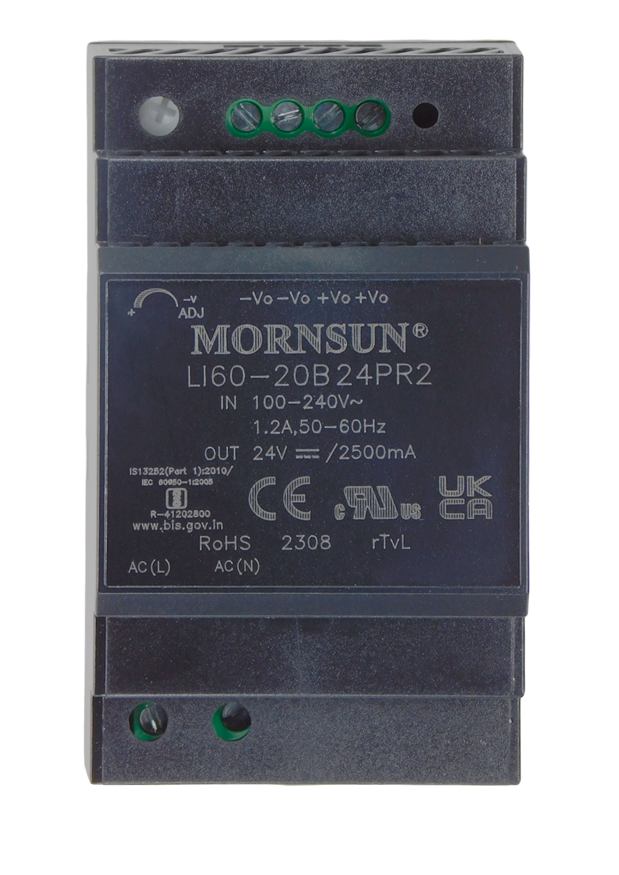
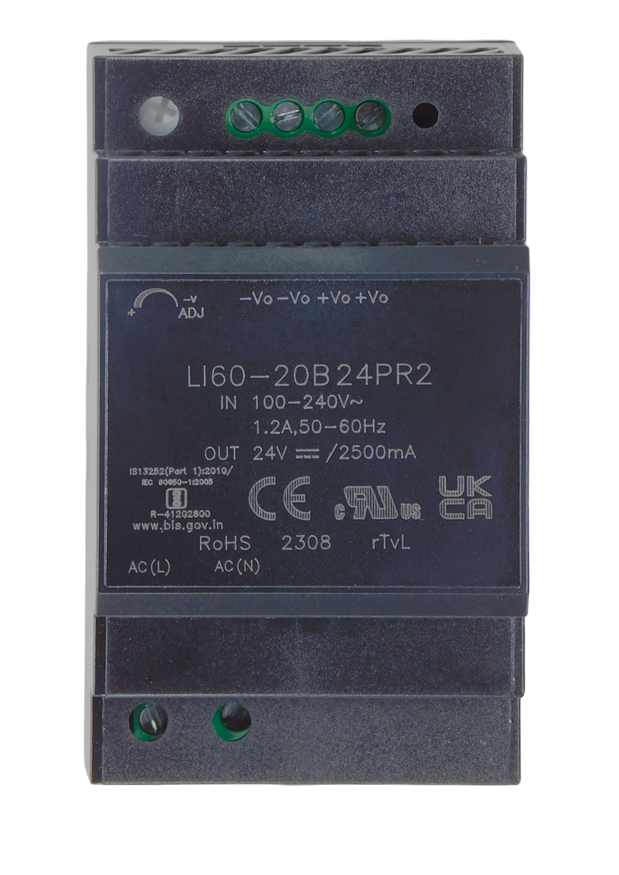
Привёл к одному виду карточки блоков питания LI15/30/60/100/150-20B24PR2
Вторая правка линейки после #641–#644: оформление RU и EN, meta, фото.
Цифры не менялись, у LI100-20B24PR2 сверены с даташитом.

- заголовок «Технические характеристики» / «Technical Specifications»
  (в карточках только паспортные цифры; EN — Title Case, был капс);
  секции EN «Input» / «Output» / «Other», как в RU;
- RU: изоляция «до ~ 4 кВ» → «до 4000 В переменного тока»; десятичная
  точка везде; кириллическая «М» в «3М», «4М», «6М»;
- RU и EN: диапазоны через «…»; размеры «ширина × высота × глубина»
  (у LI60-20B24PR2 было 92.7 × 52 × 58); EN-пункты с точкой;
  у LI100-20B24PR2 EN-описание и «Other» по образцу линейки;
- meta одной формулой у всей линейки: RU «Блок питания MORNSUN на
  DIN-рейку 24 В, X А (Y Вт), ширина NМ», EN без поставщика
  «DIN rail power supply 24 V, X A (Y W), width NM»;
- <br> в конце первой секции: линия под ней прилипала (3 → 27 px);
- галерея: убраны дубли обложки (LI30 -1, LI60 -3 = cover.png);
- фото EN-карточек: заретуширован логотип «MORNSUN®» на этикетке,
  остальная маркировка не тронута; RU-фото не менялись.

Changed region(s): [[0.3069, 0.3703, 0.706, 0.4011]]

diff --git a/content/ru/catalog/li60-20b24pr2.md b/content/ru/catalog/li60-20b24pr2.md
@@ -5,11 +5,10 @@ catalogCover: "li60-20b24pr2/catalog-cover.png"
 images: [
   ["li60-20b24pr2/cover.png"],
   ["li60-20b24pr2/li60-20b24pr2-1.png"],
-  ["li60-20b24pr2/li60-20b24pr2-2.png"],
-  ["li60-20b24pr2/li60-20b24pr2-3.png"]
+  ["li60-20b24pr2/li60-20b24pr2-2.png"]
 ]
 documentation: "https://wirenboard.com/wiki/images/5/57/LI60-20BxxPR2.pdf"
-meta: "Блок питания на DIN-рейку на 24 В, 2,5 А (60 Вт) от MORNSUN"
+meta: "Блок питания MORNSUN на DIN-рейку 24 В, 2.5 А (60 Вт), ширина 3М"
 keywords: "LI60-20B24PR2"
 ---
 ::product
@@ -24,17 +23,19 @@ keywords: "LI60-20B24PR2"
 
 ::product-section{title="Вход"}
 - входное напряжение 85…264 В переменного тока;
-- напряжение изоляции вход-выход до ~ 4 кВ.
+- напряжение изоляции вход-выход до 4000 В переменного тока.
+
+<br>
 ::
 
 ::product-section{title="Выход"}
-- выходное напряжение 24 В, ток 2,5 А;
-- регулируемый диапазон 21.6–29.0 В;
+- выходное напряжение 24 В, ток 2.5 А;
+- регулируемый диапазон 21.6…29.0 В;
 - защита от перегрузки, короткого замыкания, перенапряжения.
 ::
 
 ::product-section{title="Прочее"}
-- корпус на DIN-рейку, 3M (92.7 × 52 × 58 мм).
+- корпус на DIN-рейку, 3М (52 × 92.7 × 58 мм).
 ::
 
 

diff --git a/content/en/catalog/li60-20b24pr2.md b/content/en/catalog/li60-20b24pr2.md
@@ -5,11 +5,10 @@ catalogCover: "li60-20b24pr2/catalog-cover.png"
 images: [
   ["li60-20b24pr2/cover.png"],
   ["li60-20b24pr2/li60-20b24pr2-1.png"],
-  ["li60-20b24pr2/li60-20b24pr2-2.png"],
-  ["li60-20b24pr2/li60-20b24pr2-3.png"]
+  ["li60-20b24pr2/li60-20b24pr2-2.png"]
 ]
 documentation: "https://wirenboard.com/wiki/images/5/57/LI60-20BxxPR2.pdf"
-meta: "DIN rail power supply 24 V PSU, 2.5 A (60 W) manufactured by MORNSUN"
+meta: "DIN rail power supply 24 V, 2.5 A (60 W), width 3M"
 keywords: "LI60-20B24PR2"
 ---
 ::product
@@ -20,21 +19,23 @@ Output voltage 24 V, power 60 W, width 3M (52 mm).
 
 #info
 
-## TECHNICAL SPECIFICATIONS
+## Technical Specifications
 
-::product-section{title="Input Specifications"}
-- Input voltage: 85–264 VAC;
+::product-section{title="Input"}
+- Input voltage: 85…264 VAC.
 - Input-output isolation voltage: up to 4000 VAC.
+
+<br>
 ::
 
-::product-section{title="Output Specifications"}
-- Output voltage: 24 VDC, current 2.5 A;
-- Adjustable output range: 21.6–29.0 V;
+::product-section{title="Output"}
+- Output voltage: 24 VDC, current 2.5 A.
+- Adjustable output range: 21.6…29.0 V.
 - Protections: overload, short circuit, overvoltage.
 ::
 
 ::product-section{title="Other"}
-- DIN rail enclosure, 3M (92.7 × 52 × 58 mm).
+- DIN rail enclosure, 3M (52 × 92.7 × 58 mm).
 ::
 
 

diff --git a/content/ru/catalog/li150-20b24pr2.md b/content/ru/catalog/li150-20b24pr2.md
@@ -7,7 +7,7 @@ images: [
   ["li150-20b24pr2/li150-20b24pr2-1.png"]
 ]
 documentation: "https://wirenboard.com/wiki/images/1/14/LI150-20BxxPR2.pdf"
-meta: "LI150-20B24PR2"
+meta: "Блок питания MORNSUN на DIN-рейку 24 В, 6.25 А (150 Вт), ширина 6М"
 keywords: "LI150-20B24PR2"
 ---
 ::product
@@ -22,17 +22,19 @@ keywords: "LI150-20B24PR2"
 
 ::product-section{title="Вход"}
 - входное напряжение 85…264 В переменного тока;
-- напряжение изоляции вход-выход до ~ 4 кВ.
+- напряжение изоляции вход-выход до 4000 В переменного тока.
+
+<br>
 ::
 
 ::product-section{title="Выход"}
-- выходное напряжение 24 В, ток 6,25 А;
-- регулируемый диапазон 21.6–29.0 В;
+- выходное напряжение 24 В, ток 6.25 А;
+- регулируемый диапазон 21.6…29.0 В;
 - защита от перегрузки, короткого замыкания, перенапряжения, перегрева.
 ::
 
 ::product-section{title="Прочее"}
-- корпус на DIN-рейку, 6M (105 × 90 × 55.4 мм).
+- корпус на DIN-рейку, 6М (105 × 90 × 55.4 мм).
 ::
 
 

diff --git a/content/ru/catalog/li100-20b24pr2.md b/content/ru/catalog/li100-20b24pr2.md
@@ -7,7 +7,7 @@ images: [
   ["li100-20b24pr2/li100-20b24pr2-1.png"]
 ]
 documentation: "https://wirenboard.com/wiki/images/7/7a/LI100-20BxxPR2.pdf"
-meta: "LI100-20B24PR2"
+meta: "Блок питания MORNSUN на DIN-рейку 24 В, 4.2 А (100 Вт), ширина 4М"
 keywords: "LI100-20B24PR2"
 ---
 ::product
@@ -22,17 +22,19 @@ keywords: "LI100-20B24PR2"
 
 ::product-section{title="Вход"}
 - входное напряжение 85…264 В переменного тока;
-- напряжение изоляции вход-выход до ~ 4 кВ.
+- напряжение изоляции вход-выход до 4000 В переменного тока.
+
+<br>
 ::
 
 ::product-section{title="Выход"}
 - выходное напряжение 24 В, ток 4.2 А;
-- регулируемый диапазон 21.6–29.0 В;
+- регулируемый диапазон 21.6…29.0 В;
 - защита от перегрузки, короткого замыкания, перенапряжения.
 ::
 
 ::product-section{title="Прочее"}
-- корпус на DIN-рейку, 4M (70 × 92.7 × 58 мм).
+- корпус на DIN-рейку, 4М (70 × 92.7 × 58 мм).
 ::
 
 

diff --git a/content/ru/catalog/li30-20b24pr2.md b/content/ru/catalog/li30-20b24pr2.md
@@ -4,11 +4,10 @@ cover: "li30-20b24pr2/cover.png"
 catalogCover: "li30-20b24pr2/catalog-cover.png"
 images: [
   ["li30-20b24pr2/cover.png"],
-  ["li30-20b24pr2/li30-20b24pr2-1.png"],
   ["li30-20b24pr2/li30-20b24pr2-2.png"]
 ]
 documentation: "https://wirenboard.com/wiki/images/9/96/LI30-20BxxPR2.pdf"
-meta: "LI30-20B24PR2"
+meta: "Блок питания MORNSUN на DIN-рейку 24 В, 1.5 А (30 Вт), ширина 2М"
 keywords: "LI30-20B24PR2"
 ---
 ::product
@@ -23,12 +22,14 @@ keywords: "LI30-20B24PR2"
 
 ::product-section{title="Вход"}
 - входное напряжение 85…264 В переменного тока;
-- напряжение изоляции вход-выход до ~ 4 кВ.
+- напряжение изоляции вход-выход до 4000 В переменного тока.
+
+<br>
 ::
 
 ::product-section{title="Выход"}
 - выходное напряжение 24 В, ток 1.5 А;
-- регулируемый диапазон 21.6–29.0 В;
+- регулируемый диапазон 21.6…29.0 В;
 - защита от перегрузки, короткого замыкания, перенапряжения.
 ::
 

diff --git a/content/en/catalog/li100-20b24pr2.md b/content/en/catalog/li100-20b24pr2.md
@@ -7,32 +7,34 @@ images: [
   ["li100-20b24pr2/li100-20b24pr2-1.png"]
 ]
 documentation: "https://wirenboard.com/wiki/images/7/7a/LI100-20BxxPR2.pdf"
-meta: "LI100-20B24PR2"
+meta: "DIN rail power supply 24 V, 4.2 A (100 W), width 4M"
 keywords: "LI100-20B24PR2"
 ---
 ::product
 #description
 
-Output voltage 24V, power 100W, width 4M.
+Output voltage 24 V, power 100 W, width 4M (70 mm).
 
 
 #info
 
-## TECHNICAL SPECIFICATIONS
+## Technical Specifications
 
-::product-section{title="Input Specifications"}
-- Input voltage: 85–264 VAC;
+::product-section{title="Input"}
+- Input voltage: 85…264 VAC.
 - Input-output isolation voltage: up to 4000 VAC.
+
+<br>
 ::
 
-::product-section{title="Output Specifications"}
-- Output voltage: 24 VDC, current 4.2 A;
-- Adjustable output range: 21.6–29.0 V;
+::product-section{title="Output"}
+- Output voltage: 24 VDC, current 4.2 A.
+- Adjustable output range: 21.6…29.0 V.
 - Protections: overload, short circuit, overvoltage.
 ::
 
 ::product-section{title="Other"}
-- DIN rail enclosure: 70 × 92.7 × 58 mm.
+- DIN rail enclosure, 4M (70 × 92.7 × 58 mm).
 ::
 
 

diff --git a/content/en/catalog/li30-20b24pr2.md b/content/en/catalog/li30-20b24pr2.md
@@ -4,11 +4,10 @@ cover: "li30-20b24pr2/cover.png"
 catalogCover: "li30-20b24pr2/catalog-cover.png"
 images: [
   ["li30-20b24pr2/cover.png"],
-  ["li30-20b24pr2/li30-20b24pr2-1.png"],
   ["li30-20b24pr2/li30-20b24pr2-2.png"]
 ]
 documentation: "https://wirenboard.com/wiki/images/9/96/LI30-20BxxPR2.pdf"
-meta: "LI30-20B24PR2"
+meta: "DIN rail power supply 24 V, 1.5 A (30 W), width 2M"
 keywords: "LI30-20B24PR2"
 ---
 ::product
@@ -19,16 +18,18 @@ Output voltage 24 V, power 30 W, width 2M (36 mm).
 
 #info
 
-## TECHNICAL SPECIFICATIONS
+## Technical Specifications
 
-::product-section{title="Input Specifications"}
-- Input voltage: 85–264 VAC;
+::product-section{title="Input"}
+- Input voltage: 85…264 VAC.
 - Input-output isolation voltage: up to 4000 VAC.
+
+<br>
 ::
 
-::product-section{title="Output Specifications"}
-- Output voltage: 24 VDC, current 1.5 A;
-- Adjustable output range: 21.6–29.0 V;
+::product-section{title="Output"}
+- Output voltage: 24 VDC, current 1.5 A.
+- Adjustable output range: 21.6…29.0 V.
 - Protections: overload, short circuit, overvoltage.
 ::
 

diff --git a/content/ru/catalog/li15-20b24pr2.md b/content/ru/catalog/li15-20b24pr2.md
@@ -6,7 +6,7 @@ images: [
   ["li15-20b24pr2/cover.png"]
 ]
 documentation: "https://wirenboard.com/wiki/images/5/56/LI15-20BxxPR2.pdf"
-meta: "Блок питания на DIN-рейку на 24 В, 0.63 А (15 Вт) от MORNSUN"
+meta: "Блок питания MORNSUN на DIN-рейку 24 В, 0.63 А (15 Вт), ширина 1М"
 keywords: "LI15-20B24PR2"
 ---
 ::product
@@ -21,12 +21,14 @@ keywords: "LI15-20B24PR2"
 
 ::product-section{title="Вход"}
 - входное напряжение 85…264 В переменного тока;
-- напряжение изоляции вход-выход до ~ 4 кВ.
+- напряжение изоляции вход-выход до 4000 В переменного тока.
+
+<br>
 ::
 
 ::product-section{title="Выход"}
 - выходное напряжение 24 В, ток 0.63 А;
-- регулируемый диапазон 21.6–29.0 В;
+- регулируемый диапазон 21.6…29.0 В;
 - защита от перегрузки, короткого замыкания, перенапряжения.
 ::
 

diff --git a/content/en/catalog/li15-20b24pr2.md b/content/en/catalog/li15-20b24pr2.md
@@ -6,7 +6,7 @@ images: [
   ["li15-20b24pr2/cover.png"]
 ]
 documentation: "https://wirenboard.com/wiki/images/5/56/LI15-20BxxPR2.pdf"
-meta: "DIN rail power supply 24 V PSU, 0.63 A (15 W) manufactured by MORNSUN"
+meta: "DIN rail power supply 24 V, 0.63 A (15 W), width 1M"
 keywords: "LI15-20B24PR2"
 ---
 ::product
@@ -17,16 +17,18 @@ Output voltage 24 V, power 15 W, width 1M (18 mm).
 
 #info
 
-## TECHNICAL SPECIFICATIONS
+## Technical Specifications
 
-::product-section{title="Input Specifications"}
-- Input voltage: 85–264 VAC;
+::product-section{title="Input"}
+- Input voltage: 85…264 VAC.
 - Input-output isolation voltage: up to 4000 VAC.
+
+<br>
 ::
 
-::product-section{title="Output Specifications"}
-- Output voltage: 24 VDC, current 0.63 A;
-- Adjustable output range: 21.6–29.0 V;
+::product-section{title="Output"}
+- Output voltage: 24 VDC, current 0.63 A.
+- Adjustable output range: 21.6…29.0 V.
 - Protections: overload, short circuit, overvoltage.
 ::
 

diff --git a/content/en/catalog/li150-20b24pr2.md b/content/en/catalog/li150-20b24pr2.md
@@ -7,7 +7,7 @@ images: [
   ["li150-20b24pr2/li150-20b24pr2-1.png"]
 ]
 documentation: "https://wirenboard.com/wiki/images/1/14/LI150-20BxxPR2.pdf"
-meta: "LI150-20B24PR2"
+meta: "DIN rail power supply 24 V, 6.25 A (150 W), width 6M"
 keywords: "LI150-20B24PR2"
 ---
 ::product
@@ -18,16 +18,18 @@ Output voltage 24 V, power 150 W, width 6M (105 mm).
 
 #info
 
-## TECHNICAL SPECIFICATIONS
+## Technical Specifications
 
-::product-section{title="Input Specifications"}
-- Input voltage: 85–264 VAC;
+::product-section{title="Input"}
+- Input voltage: 85…264 VAC.
 - Input-output isolation voltage: up to 4000 VAC.
+
+<br>
 ::
 
-::product-section{title="Output Specifications"}
-- Output voltage: 24 VDC, current 6.25 A;
-- Adjustable output range: 21.6–29.0 V;
+::product-section{title="Output"}
+- Output voltage: 24 VDC, current 6.25 A.
+- Adjustable output range: 21.6…29.0 V.
 - Protections: overload, short circuit, overvoltage, overtemperature.
 ::
 
